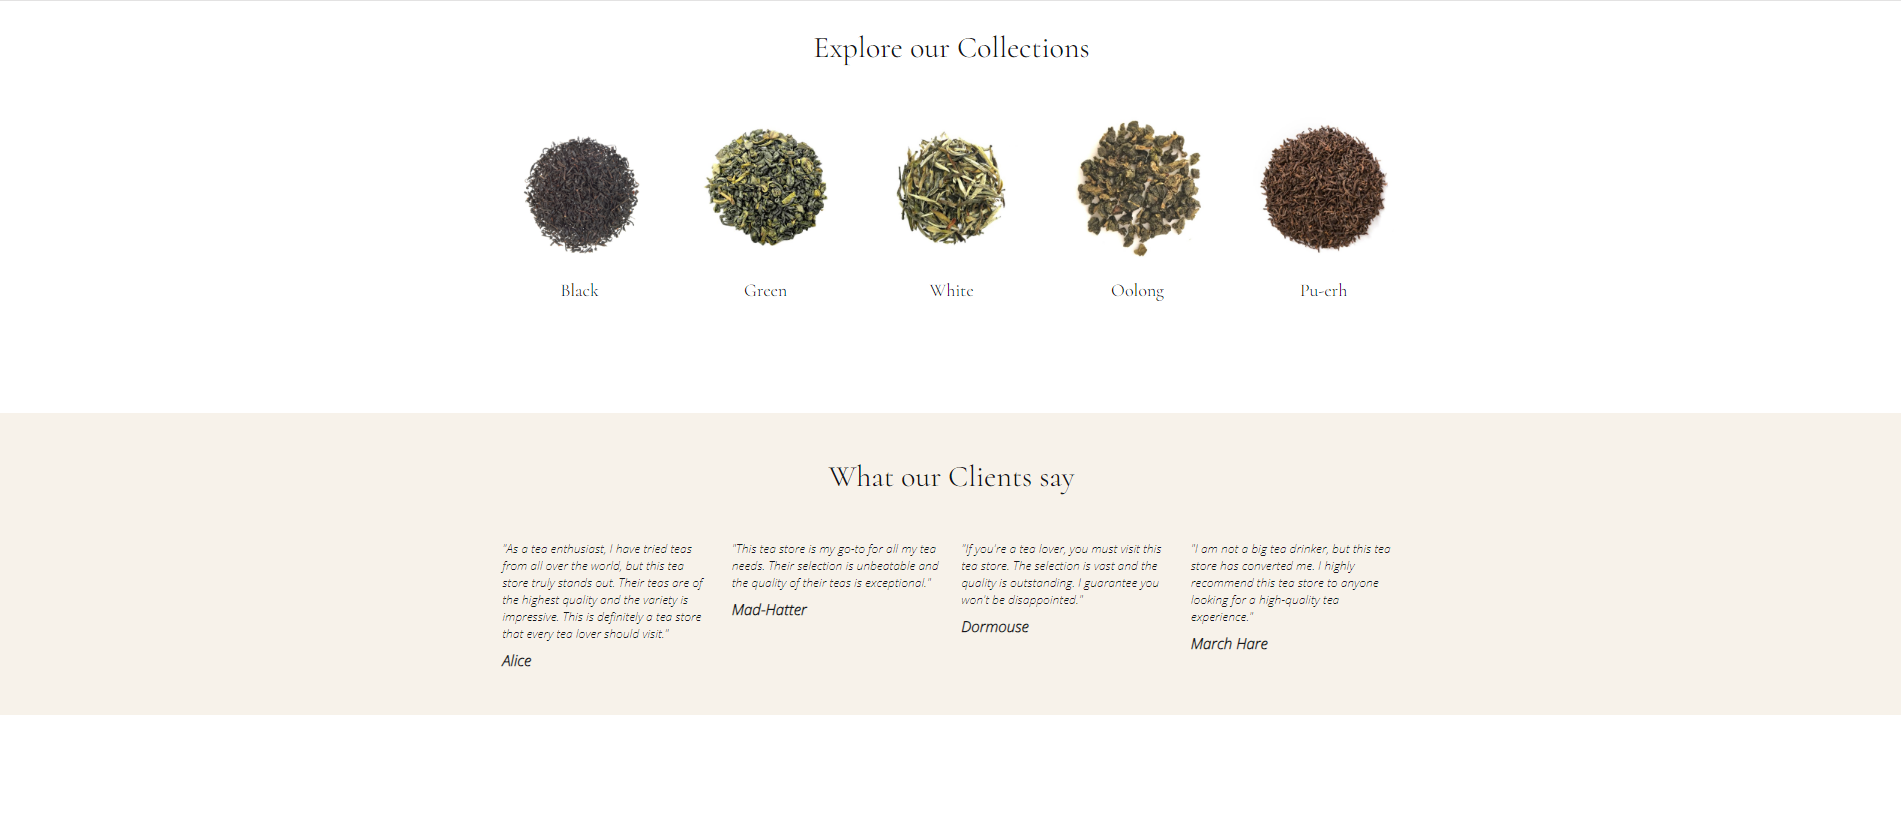
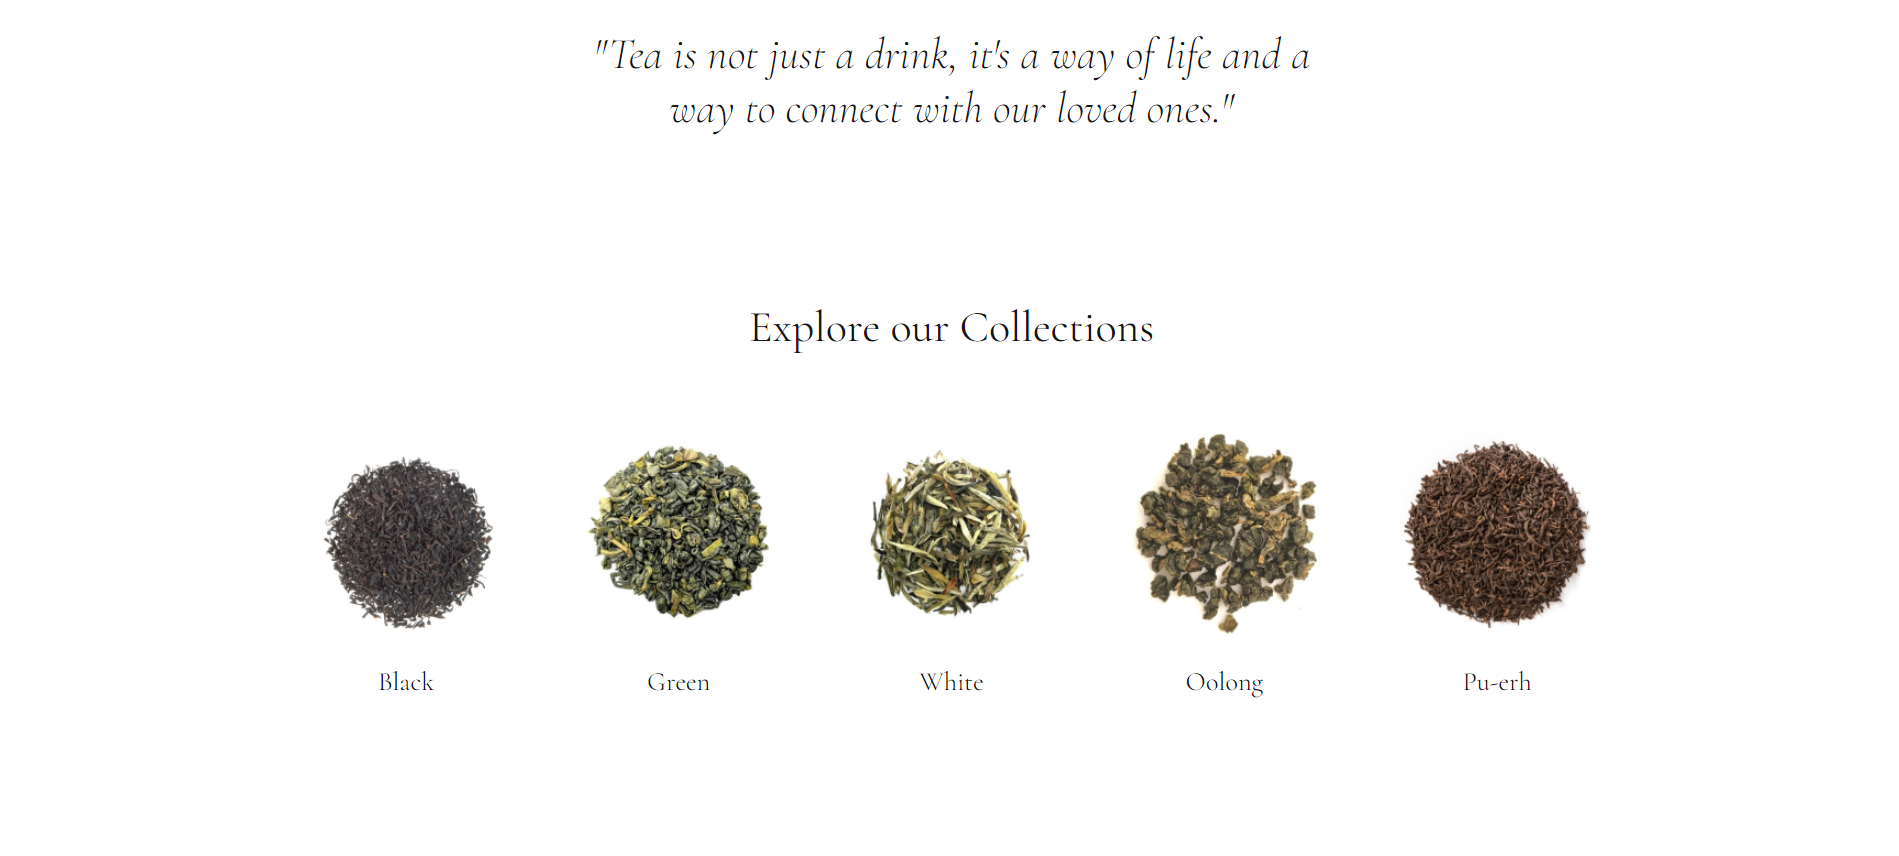
change image for readme file

diff --git a/README.md b/README.md
@@ -22,3 +22,6 @@
 ![](./assets/images/tea2.png)
 ![](./assets/images/tea3.png)
 ![](./assets/images/tea4.png)
+![](./assets/images/tea5.png)
+![](./assets/images/tea6.png)
+![](./assets/images/tea7.png)
